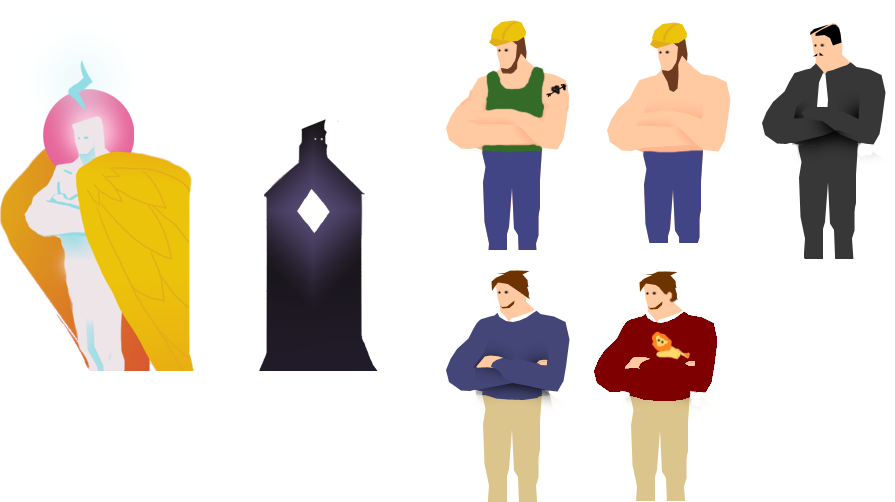
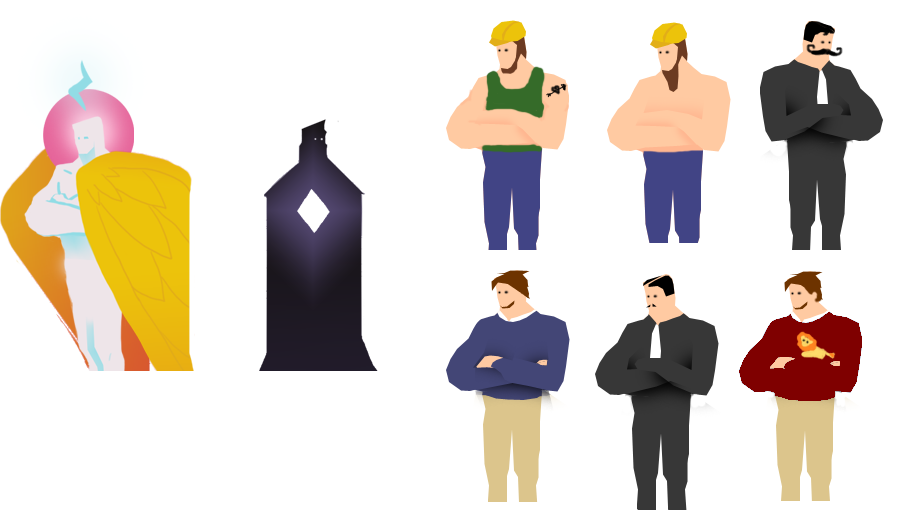
Added a GLORIOUS :) moustache to the investor.

diff --git a/index.bundle.js b/index.bundle.js
@@ -43668,7 +43668,7 @@ module.exports=//CARNIVAL
 		{
 			"id": "investor",
 			"displayName": "Anthony Calahan",
-			"sprite": "suit"
+			"sprite": "suit2"
 		}
 	],
 
@@ -47588,7 +47588,7 @@ FieldScene.prototype = new Scene();
 FieldScene.prototype.added = function()
 {
 	// create characters
-	var investor = this.createClickableSprite("suit_sprite", 50, 0);
+	var investor = this.createClickableSprite("suit_sprite2", 50, 0);
 	investor.addAction({
 		action: "triggerConversation",
 		target: require("../data/investor_conversation.json")
@@ -48800,8 +48800,8 @@ module.exports =
 	"balloon":[820,1912,60,60],
 	"balloonLarge":[1686,1562,72,128],
 	"brickwall":[2467,0,544,862],
-	"builder_guy":[1033,2283,124,288],
-	"builder_guy2":[1385,1985,124,288],
+	"builder_guy":[1385,1985,124,288],
+	"builder_guy2":[1510,1985,124,288],
 	"cardboard":[881,1912,60,60],
 	"cardboard_preacher":[1230,1985,154,319],
 	"cardboardbox":[767,2498,60,60],
@@ -48817,7 +48817,7 @@ module.exports =
 	"hammer":[1759,1562,60,60],
 	"heaven_angel":[820,1985,212,467],
 	"heaven_player":[1033,1985,196,297],
-	"humane_guy_sprite":[1510,1985,124,280],
+	"humane_guy_sprite":[1160,2305,124,280],
 	"keydoor":[2377,863,544,862],
 	"labyrinth_sign":[1031,880,800,400],
 	"lamp":[828,2453,60,60],
@@ -48825,7 +48825,7 @@ module.exports =
 	"magnets":[828,2514,60,60],
 	"moat_full":[0,0,1920,250],
 	"moat_hungry":[0,251,1920,250],
-	"normal_guy_sprite":[1158,2305,124,280],
+	"normal_guy_sprite":[1285,2305,124,280],
 	"outlet":[538,2196,61,83],
 	"pit_bridge":[0,502,1263,226],
 	"pit_edge":[1264,603,400,150],
@@ -48838,6 +48838,7 @@ module.exports =
 	"speaker":[646,2347,150,150],
 	"steelwall":[2231,1726,537,852],
 	"suit_sprite":[1686,1281,126,280],
+	"suit_sprite2":[1033,2283,126,280],
 	"tech_table":[0,2306,383,291],
 	"timedevice":[0,1912,537,393],
 	"timedevice_button1":[1417,754,141,93],
@@ -48864,18 +48865,19 @@ module.exports =
 "characters":
 {
 	url: "media/characters_atlas.png",
-	width: 895,
-	height: 502,
+	width: 897,
+	height: 510,
 	filter: THREE.LinearFilter,
 	sprites:
 	{
 	"builder":[591,0,158,243],
 	"builder2":[426,0,164,250],
-	"humane_guy":[583,251,144,250],
+	"humane_guy":[728,251,144,250],
 	"johnson1":[0,0,212,371],
 	"normal_guy":[426,251,156,251],
 	"player":[213,0,212,371],
-	"suit":[750,0,144,259],
+	"suit":[583,251,144,259],
+	"suit2":[750,0,146,250],
 	},
 },
 }

diff --git a/src/sdk/atlases/index.js b/src/sdk/atlases/index.js
@@ -17,8 +17,8 @@ module.exports =
 	"balloon":[820,1912,60,60],
 	"balloonLarge":[1686,1562,72,128],
 	"brickwall":[2467,0,544,862],
-	"builder_guy":[1033,2283,124,288],
-	"builder_guy2":[1385,1985,124,288],
+	"builder_guy":[1385,1985,124,288],
+	"builder_guy2":[1510,1985,124,288],
 	"cardboard":[881,1912,60,60],
 	"cardboard_preacher":[1230,1985,154,319],
 	"cardboardbox":[767,2498,60,60],
@@ -34,7 +34,7 @@ module.exports =
 	"hammer":[1759,1562,60,60],
 	"heaven_angel":[820,1985,212,467],
 	"heaven_player":[1033,1985,196,297],
-	"humane_guy_sprite":[1510,1985,124,280],
+	"humane_guy_sprite":[1160,2305,124,280],
 	"keydoor":[2377,863,544,862],
 	"labyrinth_sign":[1031,880,800,400],
 	"lamp":[828,2453,60,60],
@@ -42,7 +42,7 @@ module.exports =
 	"magnets":[828,2514,60,60],
 	"moat_full":[0,0,1920,250],
 	"moat_hungry":[0,251,1920,250],
-	"normal_guy_sprite":[1158,2305,124,280],
+	"normal_guy_sprite":[1285,2305,124,280],
 	"outlet":[538,2196,61,83],
 	"pit_bridge":[0,502,1263,226],
 	"pit_edge":[1264,603,400,150],
@@ -55,6 +55,7 @@ module.exports =
 	"speaker":[646,2347,150,150],
 	"steelwall":[2231,1726,537,852],
 	"suit_sprite":[1686,1281,126,280],
+	"suit_sprite2":[1033,2283,126,280],
 	"tech_table":[0,2306,383,291],
 	"timedevice":[0,1912,537,393],
 	"timedevice_button1":[1417,754,141,93],
@@ -81,18 +82,19 @@ module.exports =
 "characters":
 {
 	url: "media/characters_atlas.png",
-	width: 895,
-	height: 502,
+	width: 897,
+	height: 510,
 	filter: THREE.LinearFilter,
 	sprites:
 	{
 	"builder":[591,0,158,243],
 	"builder2":[426,0,164,250],
-	"humane_guy":[583,251,144,250],
+	"humane_guy":[728,251,144,250],
 	"johnson1":[0,0,212,371],
 	"normal_guy":[426,251,156,251],
 	"player":[213,0,212,371],
-	"suit":[750,0,144,259],
+	"suit":[583,251,144,259],
+	"suit2":[750,0,146,250],
 	},
 },
 }

diff --git a/src/game/scene_past_field.js b/src/game/scene_past_field.js
@@ -17,7 +17,7 @@ FieldScene.prototype = new Scene();
 FieldScene.prototype.added = function()
 {
 	// create characters
-	var investor = this.createClickableSprite("suit_sprite", 50, 0);
+	var investor = this.createClickableSprite("suit_sprite2", 50, 0);
 	investor.addAction({
 		action: "triggerConversation",
 		target: require("../data/investor_conversation.json")
